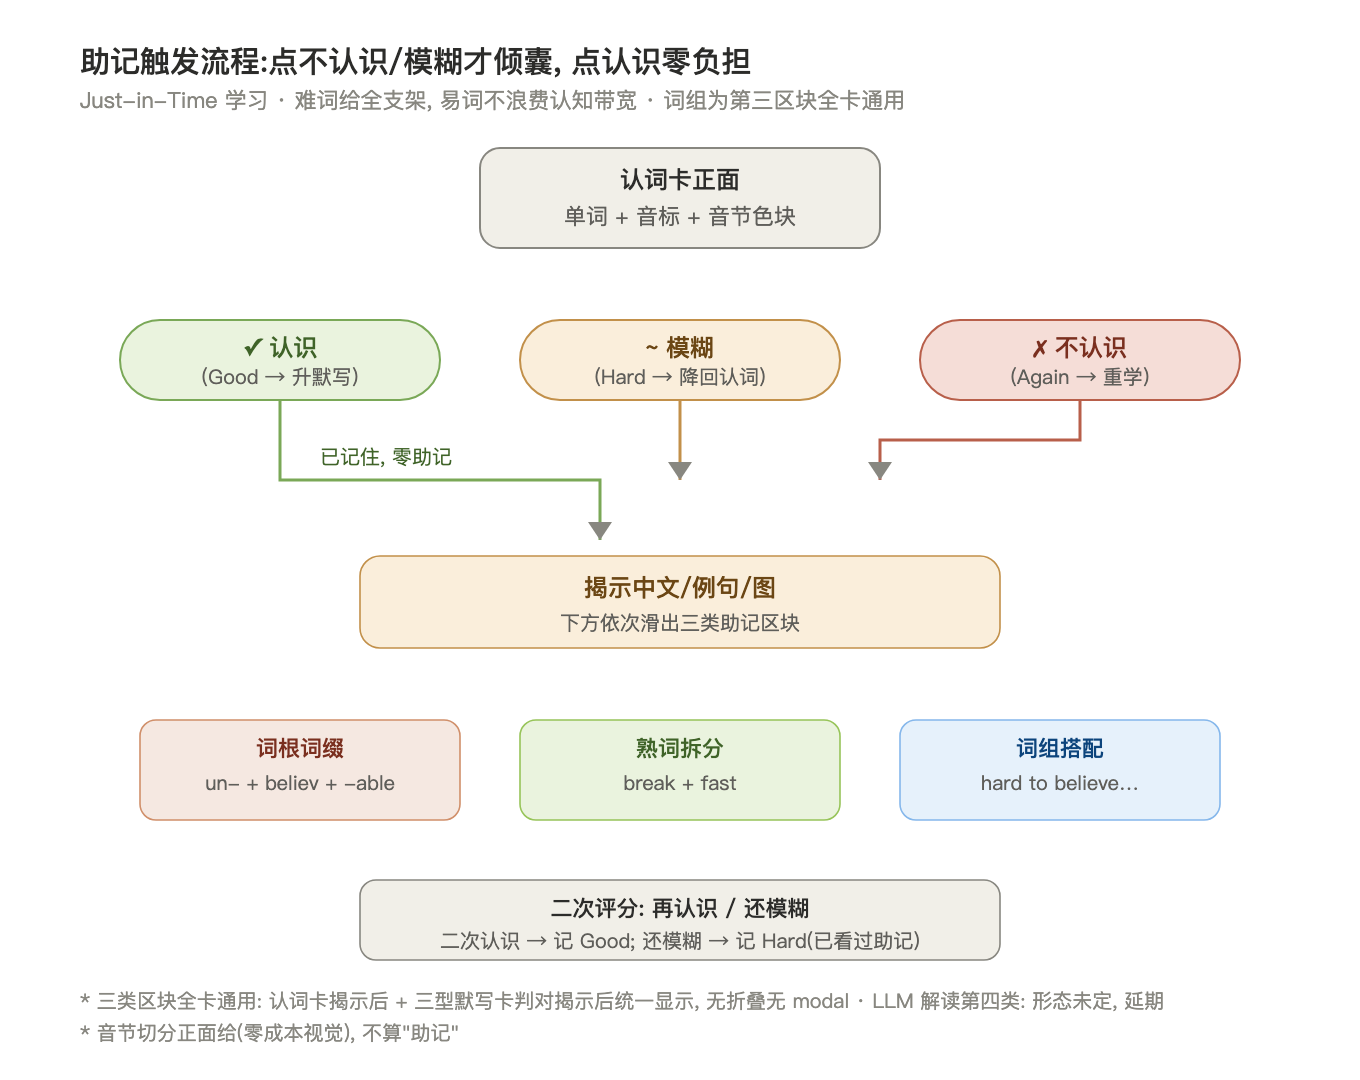
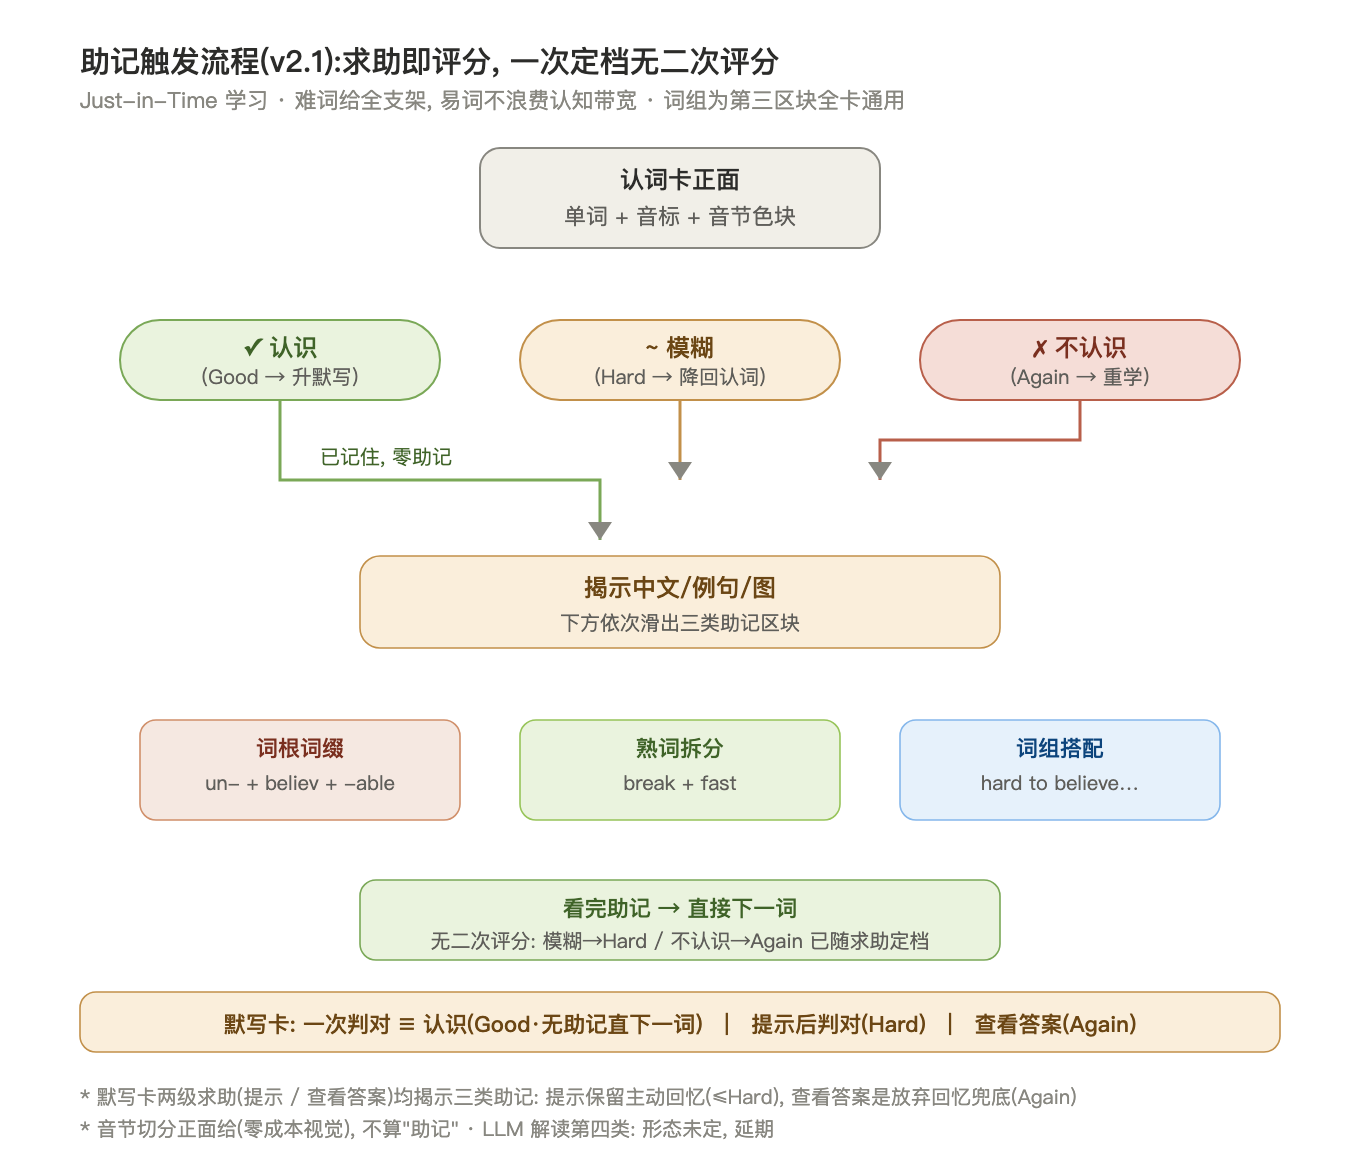
docs(mnemonic): v2.1 交互契约修正
- 删除助记显示后的二次评分(再认/还模糊): 评分随求助动作一次确定, 看完助记直接下一词
- 默写卡一次判对 ≡ 认识(无助记直接下一词), 与认词卡认识同逻辑
- 默写卡求助改两级: 提示(保留主动回忆, 用后判对最多 Hard) → 查看答案(Again), 两级均揭示三类助记
- 联动更新: §1 契约表(增加评分列) / §2.5 显示规则 / §3.0 揭示后态(去按钮) / §3.1 空间核算 / §7.2 验证 / §8 变更表 / §9 记录
- trigger-flow / card-layering 两图重绘导出

Changed region(s): [[0.0309, 0.2444, 0.9574, 0.9778], [0.0618, 0.0306, 0.6794, 0.2139]]

diff --git a/docs/单词助记系统设计.md b/docs/单词助记系统设计.md
@@ -6,6 +6,8 @@
 > **实现路径**：音节切分（规则零成本）+ 词根词缀（LLM 批生成 + affix 特殊词入 words 表）+ 熟词拆分（LLM 批生成 + ECDICT 二次校验）。
 >
 > **v2 修订（2026-09-05）**：① 词组搭配升级为**所有卡片通用区块**（不再限定默写卡 Good 弹窗）；② 原"谐音联想"改为**LLM 解读**（具体形态未定，设计与实现均延期）；③ affix 词书不建独立表，词根作为**特殊 word 入 words 表**（kind 存 contentJson）；④ 删除助记区折叠设计与相关持久化。
+>
+> **v2.1 修订（2026-09-06）**：⑤ 助记显示后**取消二次评分**——评分随求助动作一次确定，看完助记直接下一词；⑥ 默写卡**一次判对 ≡ 认识**（无助记直接下一词），求助分两级：**提示**（用后判对最多记 Hard）→ **查看答案**（Again + 揭示三类助记）。
 
 ---
 
@@ -13,22 +15,29 @@
 
 ![助记触发流程](assets/mnemonic-system/trigger-flow.png)
 
-**核心交互契约**：
+**核心交互契约**（v2.1）：
 
-| 用户行为 | 助记显示 |
-| --- | --- |
-| 单词卡正面（揭示前） | 仅显示 **音节色块** + **音标**（属于"音形图"必要信息，非助记） |
-| 点 **认识** ✓ | 直接跳下一词，**无任何助记**（已记住不浪费认知带宽） |
-| 点 **模糊** ~ | 揭示中文/例句/图 + 立即依次滑出三类助记：**词根词缀 / 熟词拆分 / 词组搭配** |
-| 点 **不认识** ✗ | 同模糊路径，触发**同样的三类助记** |
-| 助记显示后二次评分 | **再认** → Good（看过助记后真记住了） / **还模糊** → Hard（已看过助记仍不行） |
-| 默写卡判对揭示后 | 同样显示三类助记区块（全卡通用，无独立 modal） |
+| 用户行为 | 评分 | 助记显示 |
+| --- | --- | --- |
+| 认词卡正面（揭示前） | — | 仅显示 **音节色块** + **音标**（属于"音形图"必要信息，非助记） |
+| 认词卡点 **认识** ✓ | Good | 直接跳下一词，**无任何助记**（已记住不浪费认知带宽） |
+| 认词卡点 **模糊** ~ | Hard | 揭示中文/例句/图 + 立即依次滑出三类助记：**词根词缀 / 熟词拆分 / 词组搭配** |
+| 认词卡点 **不认识** ✗ | Again | 同模糊路径，揭示 + **同样的三类助记** |
+| 助记显示后 | （已定） | **无二次评分**——评分已随求助动作确定，看完助记点任意处/自动进下一词 |
+| 默写卡一次 **判对** | Good | ≡ 认识：直接跳下一词，**无助记**（拼对即掌握信号，与认词卡"认识"同逻辑） |
+| 默写卡点 **提示** 后判对 | Hard | 揭示答案 + 三类助记（用过提示，最多记 Hard） |
+| 默写卡点 **查看答案** | Again | 揭示答案 + 三类助记（彻底求助，记 Again） |
+
+**交互要点**：
+
+- **一次评分**：求助即评分。认词卡三键、默写卡"判对/提示/查看答案"各档动作直接映射 FSRS 评分，助记展示不附加第二轮按钮——减少一次决策，复习节奏更快
+- **默写卡两级求助**：「提示」给部分线索（如首字母/词根闪现），保留主动回忆；「查看答案」是放弃主动回忆的兜底。两级都揭示三类助记，但评分档位不同（Hard vs Again）
 
 **为什么这样设计**：
 
-- 用户点"认识"= 已记住信号 → 系统信任记忆 → 不堆信息
-- 用户点"不认识/模糊"= 主动求助信号 → 系统倾囊相助：词根、熟词、词组三区同框
-- 这把"评分"和"助记强度"做了**用户主动选择**的耦合，**比"按词长阈值给助记"更尊重用户**
+- 用户点"认识"（认词卡）/ 拼对即判（默写卡）= 已掌握信号 → 系统信任记忆 → 不堆信息
+- 用户点"不认识/模糊/提示/查看答案"= 主动求助信号 → 系统倾囊相助：词根、熟词、词组三区同框
+- 这把"评分"和"助记强度"做了**用户主动选择**的耦合，**比"按词长阈值给助记"更尊重用户**；且评分随求助一次确定，助记后不设二次评分，交互链路更短
 
 理论依据：**Just-in-Time 学习**（JIT）—— 困难时即时获取支架（Scaffold），简单时不浪费认知带宽。
 
@@ -159,9 +168,9 @@ words.contentJson.llmInsight: {
 
 | 场景 | 行为 |
 | --- | --- |
-| 认词卡点模糊 / 不认识（揭示后） | 中文下方依次滑出：词根词缀 / 熟词拆分 / **词组搭配** |
-| 默写卡（三型）判对揭示后 | 同样显示三类助记区块，词组搭配在内 |
-| 认词卡点认识（跳过） | 无任何助记（含词组） |
+| 认词卡点模糊 / 不认识（揭示后） | 中文下方依次滑出：词根词缀 / 熟词拆分 / **词组搭配**，看完直接下一词（无二次评分） |
+| 默写卡点 **提示** / **查看答案** 后揭示 | 同样显示三类助记区块，词组搭配在内 |
+| 默写卡一次判对 / 认词卡点认识（跳过） | 无任何助记（含词组），直接下一词 |
 | 字段缺失 | 自动收起该区块，用户无感知 |
 
 **数据结构**（新字段，不和 examples 合并）：
@@ -198,7 +207,7 @@ words.contentJson.collocations: [{
 └─────────────────────────────────┘
 ```
 
-**揭示后态（认词卡：已点模糊 / 不认识；默写卡：已判对）**：
+**揭示后态（认词卡：已点模糊 / 不认识；默写卡：已点提示 / 查看答案）**：
 ```
 ┌─────────────────────────────────┐
 │   [图片占位 · 100×60]           │ ← 顶部,不变
@@ -215,14 +224,14 @@ words.contentJson.collocations: [{
 │     • hard to believe           │
 │     • find it unbelievable      │
 │   ──────────────────────         │
-│   [再认] [还模糊]               │
+│   (看完直接下一词, 无二次评分)   │
 └─────────────────────────────────┘
 ```
 
 **视觉规则**：
 
 - 助记三区（词根词缀 / 熟词拆分 / 词组搭配）**全部可选显示**，缺字段自动收起该区块（用户不感知）
-- 三区在**所有卡片类型**上行为一致：认词卡揭示后、三型默写卡判对后统一展示，无折叠、无 modal
+- 三区在**所有卡片类型**上行为一致：认词卡求助揭示后、默写卡提示/查看答案揭示后统一展示，无折叠、无 modal
 - 助记文字字号小（10-11px）、非加粗，与主词区分（不抢视觉）
 
 ### 3.1 各卡型空间核算（无折叠，全展开直出）
@@ -231,19 +240,19 @@ words.contentJson.collocations: [{
 
 ```
 认词卡(揭示后) = 图片 100 + 单词 40 + 音标 25 + 中文 25
-               + 助记三区 ≈ 120 + 评分按钮 50
+               + 助记三区 ≈ 120 + 下一词触发区 50
                = 360px ✓
 
-视觉型默写卡   = 图片 100 + 挖空输入 60 + 音标 25
-               + 助记三区 ≈ 120 + 评分按钮 50
+视觉型默写卡   = 图片 100 + 答案展示 60 + 音标 25
+               + 助记三区 ≈ 120 + 下一词触发区 50
                = 355px ✓
 
-听觉型默写卡   = (无图) + 挖空输入 60 + 音标 25
-               + 助记三区 ≈ 120 + 评分按钮 50
+听觉型默写卡   = (无图) + 答案展示 60 + 音标 25
+               + 助记三区 ≈ 120 + 下一词触发区 50
                = 255px ✓ 富余
 
-语境型默写卡   = 配图 80 + 例句挖空 60 + 输入区 30
-               + 助记三区 ≈ 120 + 评分按钮 50
+语境型默写卡   = 配图 80 + 例句答案 60 + 输入区 30
+               + 助记三区 ≈ 120 + 下一词触发区 50
                = 340px ✓
 
 → 四类卡全展开均在 400px 内，无需折叠；若个别超长内容(多释义/多搭配)
@@ -390,9 +399,10 @@ sqlite3 data/app.db "SELECT word, content_json FROM words WHERE json_extract(con
 1. 打开 /learn → 选任意长词(单词背词流程)
 2. agent-browser eval 点击 .rate-btn[data-rating="again"] (不认识)
 3. eval 检查 .mnemonic-affix / .mnemonic-split / .mnemonic-collocations DOM 存在性
-4. 默写卡判对后同样检查三类区块存在(全卡通用验证)
-5. 截图前/后两个态对比
-6. 验证「补全助记」按钮 + 进度条:
+4. eval 确认揭示态无二次评分按钮([再认]/[还模糊] 不存在), 看完可直达下一词
+5. 默写卡: 一次判对 → 断言直接跳下一词且无助记; 点提示/查看答案 → 断言三类区块存在
+6. 截图前/后两个态对比
+7. 验证「补全助记」按钮 + 进度条:
    - 点 → 任务队列出现
    - 后端日志看 LLM 调用次数与成功率
    - 完成后 contentJson 字段被填充
@@ -443,6 +453,8 @@ word_progress（UNIQUE wordId）、选词 API、FSRS 调度、复习 session 全
 | 谐音联想 | P2 预留 mnemonic 字段 | 改为 **LLM 解读**（llmInsight），设计延期 |
 | affix 词书存储 | 独立 affix_words 表（迁移 0004） | **特殊 word 入 words 表**（kind 存 contentJson） |
 | 助记区折叠 | 三型卡差异化折叠 + sessionStorage/app_settings 持久化 | **删除**：全展开直出，超高滚动兜底 |
+| 助记后二次评分 | 再认→Good / 还模糊→Hard | **删除**：评分随求助动作一次确定（v2.1） |
+| 默写卡求助 | 判对即揭示助记 | **判对≡认识**（无助记直下一词）；求助两级：提示(≤Hard)→查看答案(Again)（v2.1） |
 
 ---
 
@@ -450,6 +462,7 @@ word_progress（UNIQUE wordId）、选词 API、FSRS 调度、复习 session 全
 
 | 时间 | 事件 | 位置 |
 | --- | --- | --- |
+| 2026-09-06 | v2.1 修订：删二次评分（评分随求助一次确定）+ 默写卡判对≡认识、提示/查看答案两级求助 | `docs/单词助记系统设计.md` |
 | 2026-09-05 | v2 修订：词组全卡通用 / LLM 解读延期 / affix 入 words / 删折叠 | `docs/单词助记系统设计.md` |
 | 2026-09-04 | v1 定稿 | `docs/单词助记系统设计.md` |
 | 2026-09-04 | contentJson 已支持 ECDICT 富字段 | `scripts/enrich-words-ecdict.mjs` |
